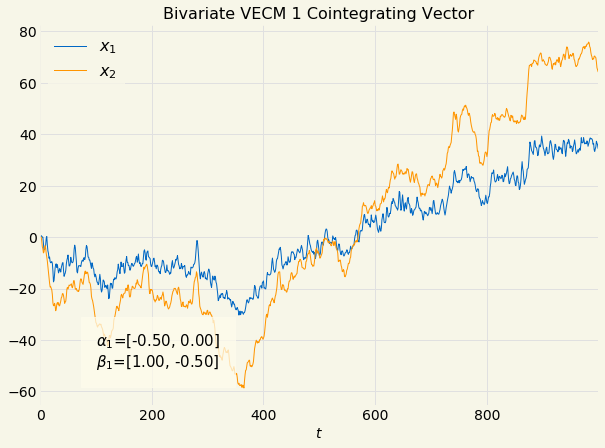
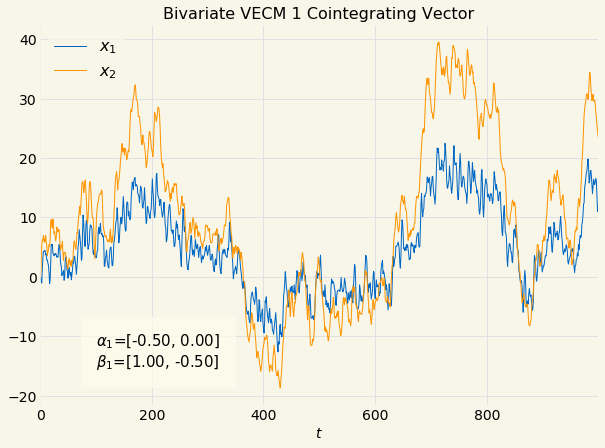
migrated to dataframes as data structures, added sample adf test and started residual adf test

diff --git a/hydrogen_notebooks/algorithmic_trading/mean_reversion/vecm_johansen_proceedure.py b/hydrogen_notebooks/algorithmic_trading/mean_reversion/vecm_johansen_proceedure.py
@@ -22,11 +22,11 @@ import datetime
 pyplot.style.use(config.glyfish_style)
 
 # %%
-
 def multivariate_normal_sample(μ, Ω, n):
     return numpy.random.multivariate_normal(μ, Ω, n)
 
-def comparison_plot(title, samples, α, β, labels, box_pos, plot):
+def comparison_plot(title, df, α, β, labels, box_pos, plot):
+    samples = data_frame_to_samples(df)
     nplot, nsamples = samples.shape
     figure, axis = pyplot.subplots(figsize=(10, 7))
     axis.set_title(title)
@@ -62,43 +62,6 @@ def regression_plot(title, xt, yt, labels, plot_name):
     axis.plot(x, y_hat, lw=3.0, color="#000000", zorder=6)
     config.save_post_asset(figure, "mean_reversion", plot_name)
 
-def vecm_generate_sample(α, β, a, Ω, nsample):
-    n, _ = a.shape
-    xt = numpy.matrix(numpy.zeros((n, nsample)))
-    εt = numpy.matrix(multivariate_normal_sample(numpy.zeros(n), Ω, nsample))
-    for i in range(2, nsample):
-        Δxt1 = xt[:,i-1] - xt[:,i-2]
-        Δxt = α*β*xt[:,i-1] + a*Δxt1 + εt[i].T
-        xt[:,i] = Δxt + xt[:,i-1]
-    return xt
-
-def multivariate_test_sample(a, n, σ):
-    m, _ = a.shape
-    t = numpy.linspace(0.0, 10.0, n)
-    x = numpy.matrix([t])
-    for i in range(1, m):
-        x = numpy.concatenate((x, numpy.matrix([t**(1/(i+1))])))
-    ε = numpy.matrix(multivariate_normal_sample(numpy.zeros(m), σ*numpy.eye(m), n))
-    y = a*x + ε.T
-    return x, y
-
-def samples_to_data_frame(samples):
-    m, n = samples.shape
-    columns = [f"x{i+1}" for i in range(m)]
-    index = (pandas.date_range(pandas.Timestamp.now(tz="UTC"), periods=n) - pandas.Timedelta(days=n)).normalize()
-    df = pandas.DataFrame(samples.T, columns=columns, index=index)
-    return df
-
-def data_frame_to_samples(df):
-    return numpy.matrix(df.to_numpy)
-
-def multiple_ols(samples, formula):
-    df = samples_to_data_frame(samples)
-    return smf.ols(formula=formula, data=df).fit()
-
-def simple_multivariate_ols(x, y):
-    return covariance(y, x) * numpy.linalg.inv(covariance(x, x))
-
 # Implementation from Reduced Rank Regression For the Multivariate Linear Model
 def covariance(x, y):
     _, n = x.shape
@@ -108,7 +71,7 @@ def covariance(x, y):
     return cov/float(n)
 
 def ols_residual(x, y):
-    a = multivariate_ols(x, y)
+    a = simple_multivariate_ols(x, y)
     return y-a*x
 
 def vecm_anderson_form(samples):
@@ -126,7 +89,8 @@ def johansen_statistic(ρ2, n, r):
 def johansen_statistic_critical_value(p, m, r):
     return scipy.stats.chi2.ppf(p, (m-r)**2)
 
-def johansen_coint_theory(samples, report=True):
+def johansen_coint_theory(df, report=True):
+    samples = data_frame_to_samples(df)
     m, n = samples.shape
 
     y, x, z = vecm_anderson_form(samples)
@@ -134,7 +98,7 @@ def johansen_coint_theory(samples, report=True):
     x_star = ols_residual(z, x)
     y_star = ols_residual(z, y)
 
-    d_star =  multivariate_ols(z, y)
+    d_star =  simple_multivariate_ols(z, y)
 
     Σxx = covariance(x_star, x_star)
     Σyy = covariance(y_star, y_star)
@@ -180,7 +144,8 @@ def johansen_coint_theory(samples, report=True):
     return ρ2[:rank], M[:,:rank], α, β
 
 # scipy implementation
-def johansen_coint(samples, report=True):
+def johansen_coint(df, report=True):
+    samples = data_frame_to_samples(df)
     m, _  = samples.shape
 
     df = pandas.DataFrame(samples.T)
@@ -212,6 +177,65 @@ def johansen_coint(samples, report=True):
 
     return ρ2[:rank], M[:,:rank]
 
+# Utilities
+def simple_multivariate_ols(x, y):
+    return covariance(y, x) * numpy.linalg.inv(covariance(x, x))
+
+def vecm_generate_sample(α, β, a, Ω, nsample):
+    n, _ = a.shape
+    xt = numpy.matrix(numpy.zeros((n, nsample)))
+    εt = numpy.matrix(multivariate_normal_sample(numpy.zeros(n), Ω, nsample))
+    for i in range(2, nsample):
+        Δxt1 = xt[:,i-1] - xt[:,i-2]
+        Δxt = α*β*xt[:,i-1] + a*Δxt1 + εt[i].T
+        xt[:,i] = Δxt + xt[:,i-1]
+    return samples_to_data_frame(xt)
+
+def multivariate_test_sample(a, n, σ):
+    m, _ = a.shape
+    t = numpy.linspace(0.0, 10.0, n)
+    x = numpy.matrix([t])
+    for i in range(1, m):
+        x = numpy.concatenate((x, numpy.matrix([t**(1/(i+1))])))
+    ε = numpy.matrix(multivariate_normal_sample(numpy.zeros(m), σ*numpy.eye(m), n))
+    y = a*x + ε.T
+    return x, y
+
+def samples_to_data_frame(samples):
+    m, n = samples.shape
+    columns = [f"x{i+1}" for i in range(m)]
+    index = (pandas.date_range(pandas.Timestamp.now(tz="UTC"), periods=n) - pandas.Timedelta(days=n)).normalize()
+    df = pandas.DataFrame(samples.T, columns=columns, index=index)
+    return df
+
+def data_frame_to_samples(df):
+    return numpy.matrix(df.to_numpy()).T
+
+def multiple_ols(df, formula):
+    return smf.ols(formula=formula, data=df).fit()
+
+def residual_adf_test(df, params, report=True):
+    samples = data_frame_to_samples(df)
+    x = numpy.matrix(params[1:])*samples[1:,:]
+    y = numpy.squeeze(numpy.asarray(samples[0,:]))
+    εt = y - params[0] - numpy.squeeze(numpy.asarray(x))
+    if report:
+        return arima.adf_report(εt)
+    else:
+        return arima.adf_test(εt)
+
+def sample_adf_test(df, report=True):
+    results = []
+    for c in df.columns:
+        samples = df[c].to_numpy()
+        if report:
+            print(f">>> ADF Test Result for: {c}")
+            results.append(arima.adf_report(samples))
+            print("")
+        else:
+            results.append(arima.adf_test(samples))
+    return results
+
 # %%
 
 n = 10000
@@ -235,24 +259,25 @@ a = numpy.matrix([[0.5, 0.0],
 title = "Bivariate VECM 1 Cointegrating Vector"
 labels = [r"$x_1$", r"$x_2$"]
 plot = "vecm_estimation_comparison_bivariate_1"
-samples = vecm_generate_sample(α, β, a, Ω, nsample)
+df = vecm_generate_sample(α, β, a, Ω, nsample)
 
 # %%
 
-comparison_plot(title, samples, α.T, β, labels, [0.1, 0.1], plot)
+comparison_plot(title, df, α.T, β, labels, [0.1, 0.1], plot)
 
 # %%
 
-johansen_coint_theory(samples)
+johansen_coint_theory(df)
 
 # %%
 
-johansen_coint(samples)
+johansen_coint(df)
 
 # %%
 
-result = multiple_ols(samples, "x1 ~ x2 - 1")
+result = multiple_ols(df, "x1 ~ x2")
 print(result.summary())
+
 
 # %%
 
@@ -269,24 +294,28 @@ a = numpy.matrix([[0.5, 0.0, 0.0],
 title = "Trivariate VECM 1 Cointegrating Vector"
 labels = [r"$x_1$", r"$x_2$", r"$x_3$"]
 plot = "vecm_estimation_comparison_trivariate_1"
-samples = vecm_generate_sample(α, β, a, Ω, nsample)
+df = vecm_generate_sample(α, β, a, Ω, nsample)
 
 # %%
 
-comparison_plot(title, samples, α.T, β, labels, [0.1, 0.1], plot)
+comparison_plot(title, df, α.T, β, labels, [0.1, 0.1], plot)
 
 # %%
 
-johansen_coint_theory(samples)
+johansen_coint_theory(df)
 
 # %%
 
-johansen_coint(samples)
+johansen_coint(df)
 
 # %%
 
-result = multiple_ols(samples, "x1 ~ x2 + x3 - 1")
+result = multiple_ols(df, "x1 ~ x2 + x3")
 print(result.summary())
+
+sample_adf_test(df)
+
+residual_adf_test(df, result.params)
 
 # %%
 
